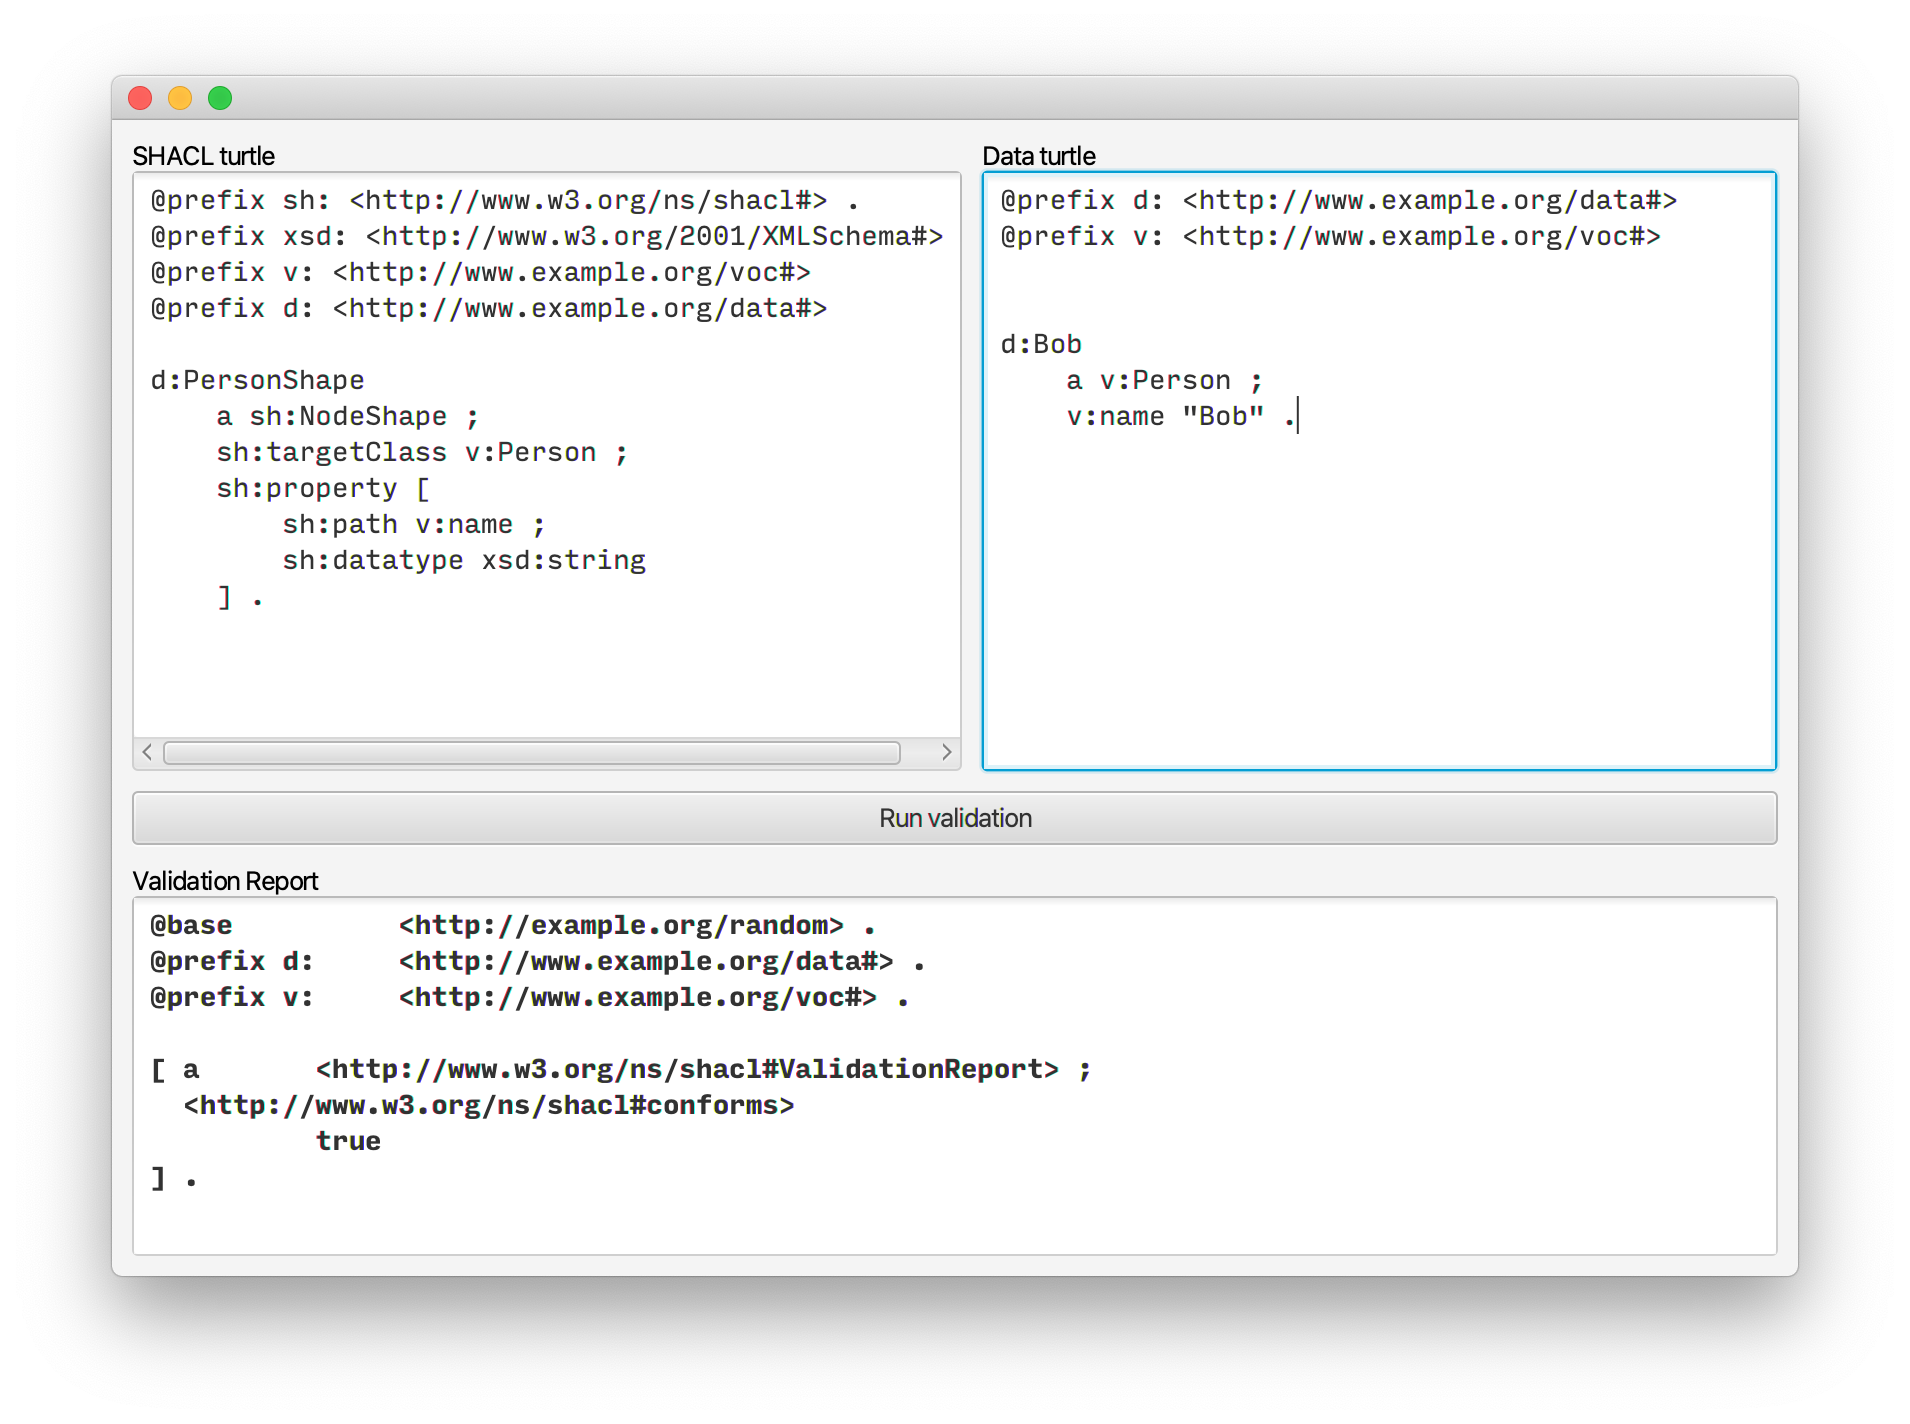
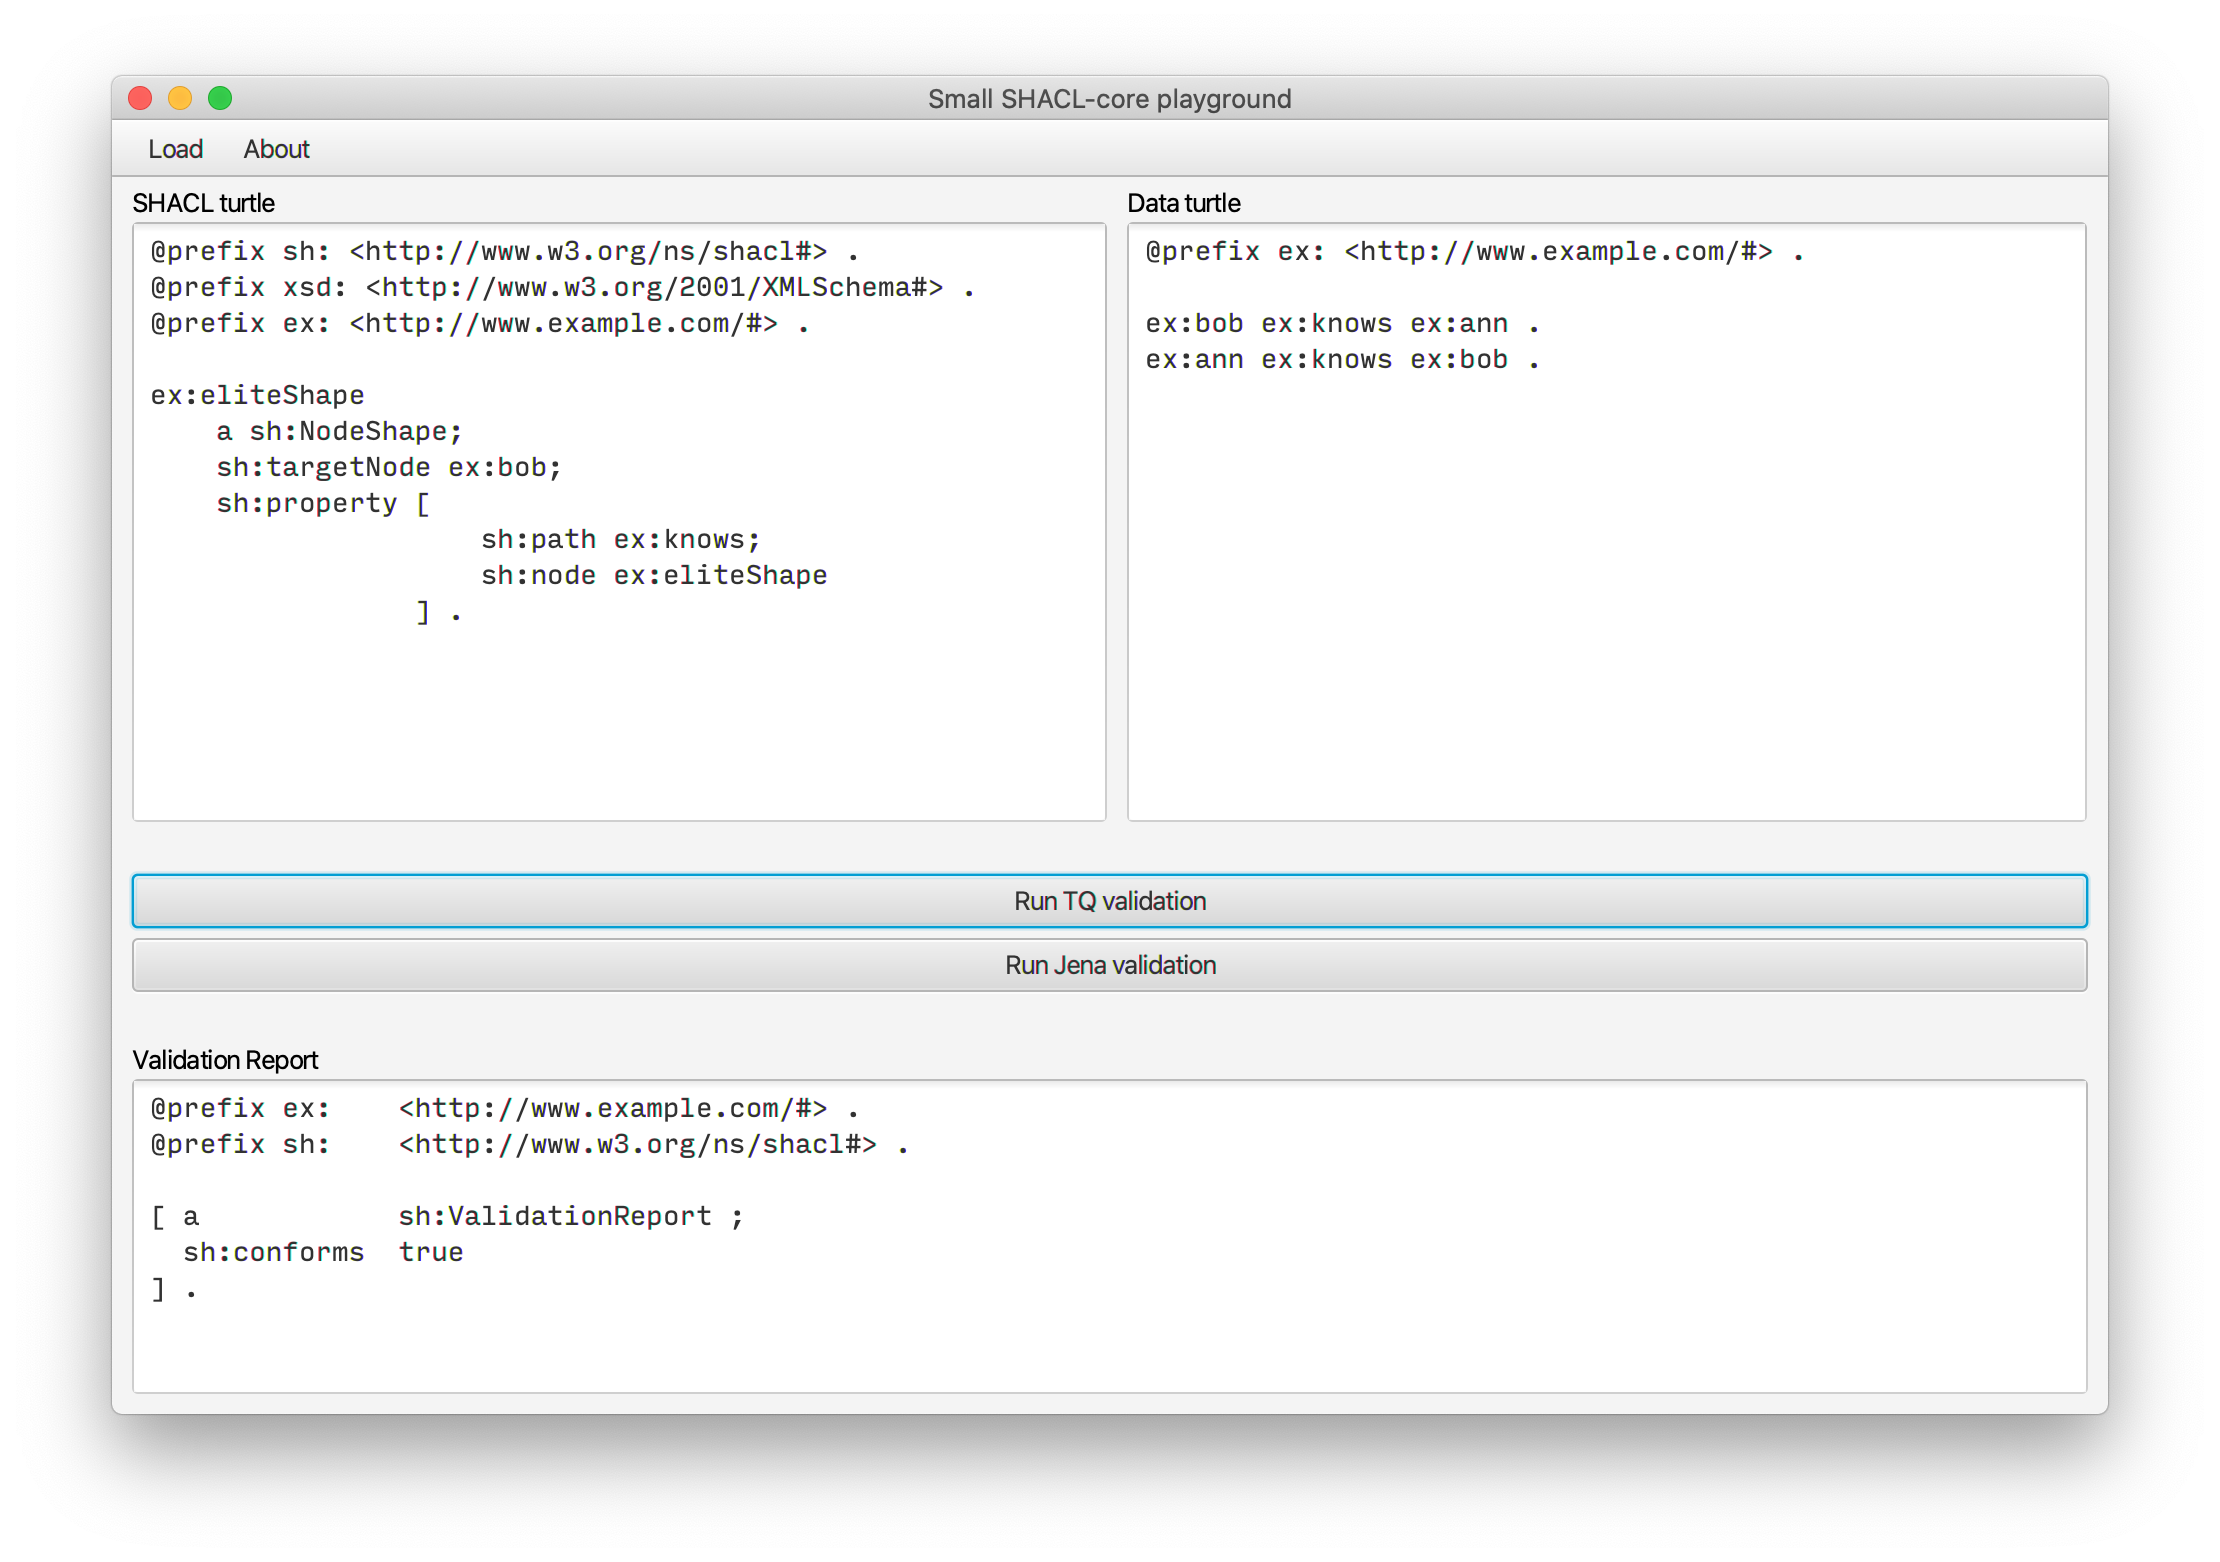
General tweaks and user guide

Changed region(s): [[0.0309, 0.0309, 0.9576, 0.927]]

diff --git a/src/main/java/module-info.java b/src/main/java/module-info.java
@@ -3,6 +3,8 @@ module me.mjakubowski {
     requires javafx.fxml;
     requires org.apache.jena.core;
     requires shacl;
+    requires org.apache.jena.shacl;
+    requires org.apache.jena.arq;
 
     opens me.mjakubowski to javafx.fxml;
     exports me.mjakubowski;

diff --git a/README.md b/README.md
@@ -1,3 +1,16 @@
-# Bare-bones SHACL validation tool
+# Bare-bones SHACL-core validation tool
 It looks like this:
 ![alt text](blob/screenshot1.png)
+
+## Running the program
+As it was not possible to package Apache Jena together with JavaFX (trough jlink) into one jar file,
+running the program requires downloading the source and compiling it.
+
+Requirements are that you have installed:
+* OpenJDK 14 or similar Java 14 implementation
+* Maven software project management tool
+
+To compile and run the program, first clone the project, then:
+1. In the folder containing `pom.xml`, run: `$ mvn clean install` to install the dependencies and plugins.
+2. Then compile the program with `$ mvn compile`.
+3. Run the program with `$ mvn javafx:run`.
